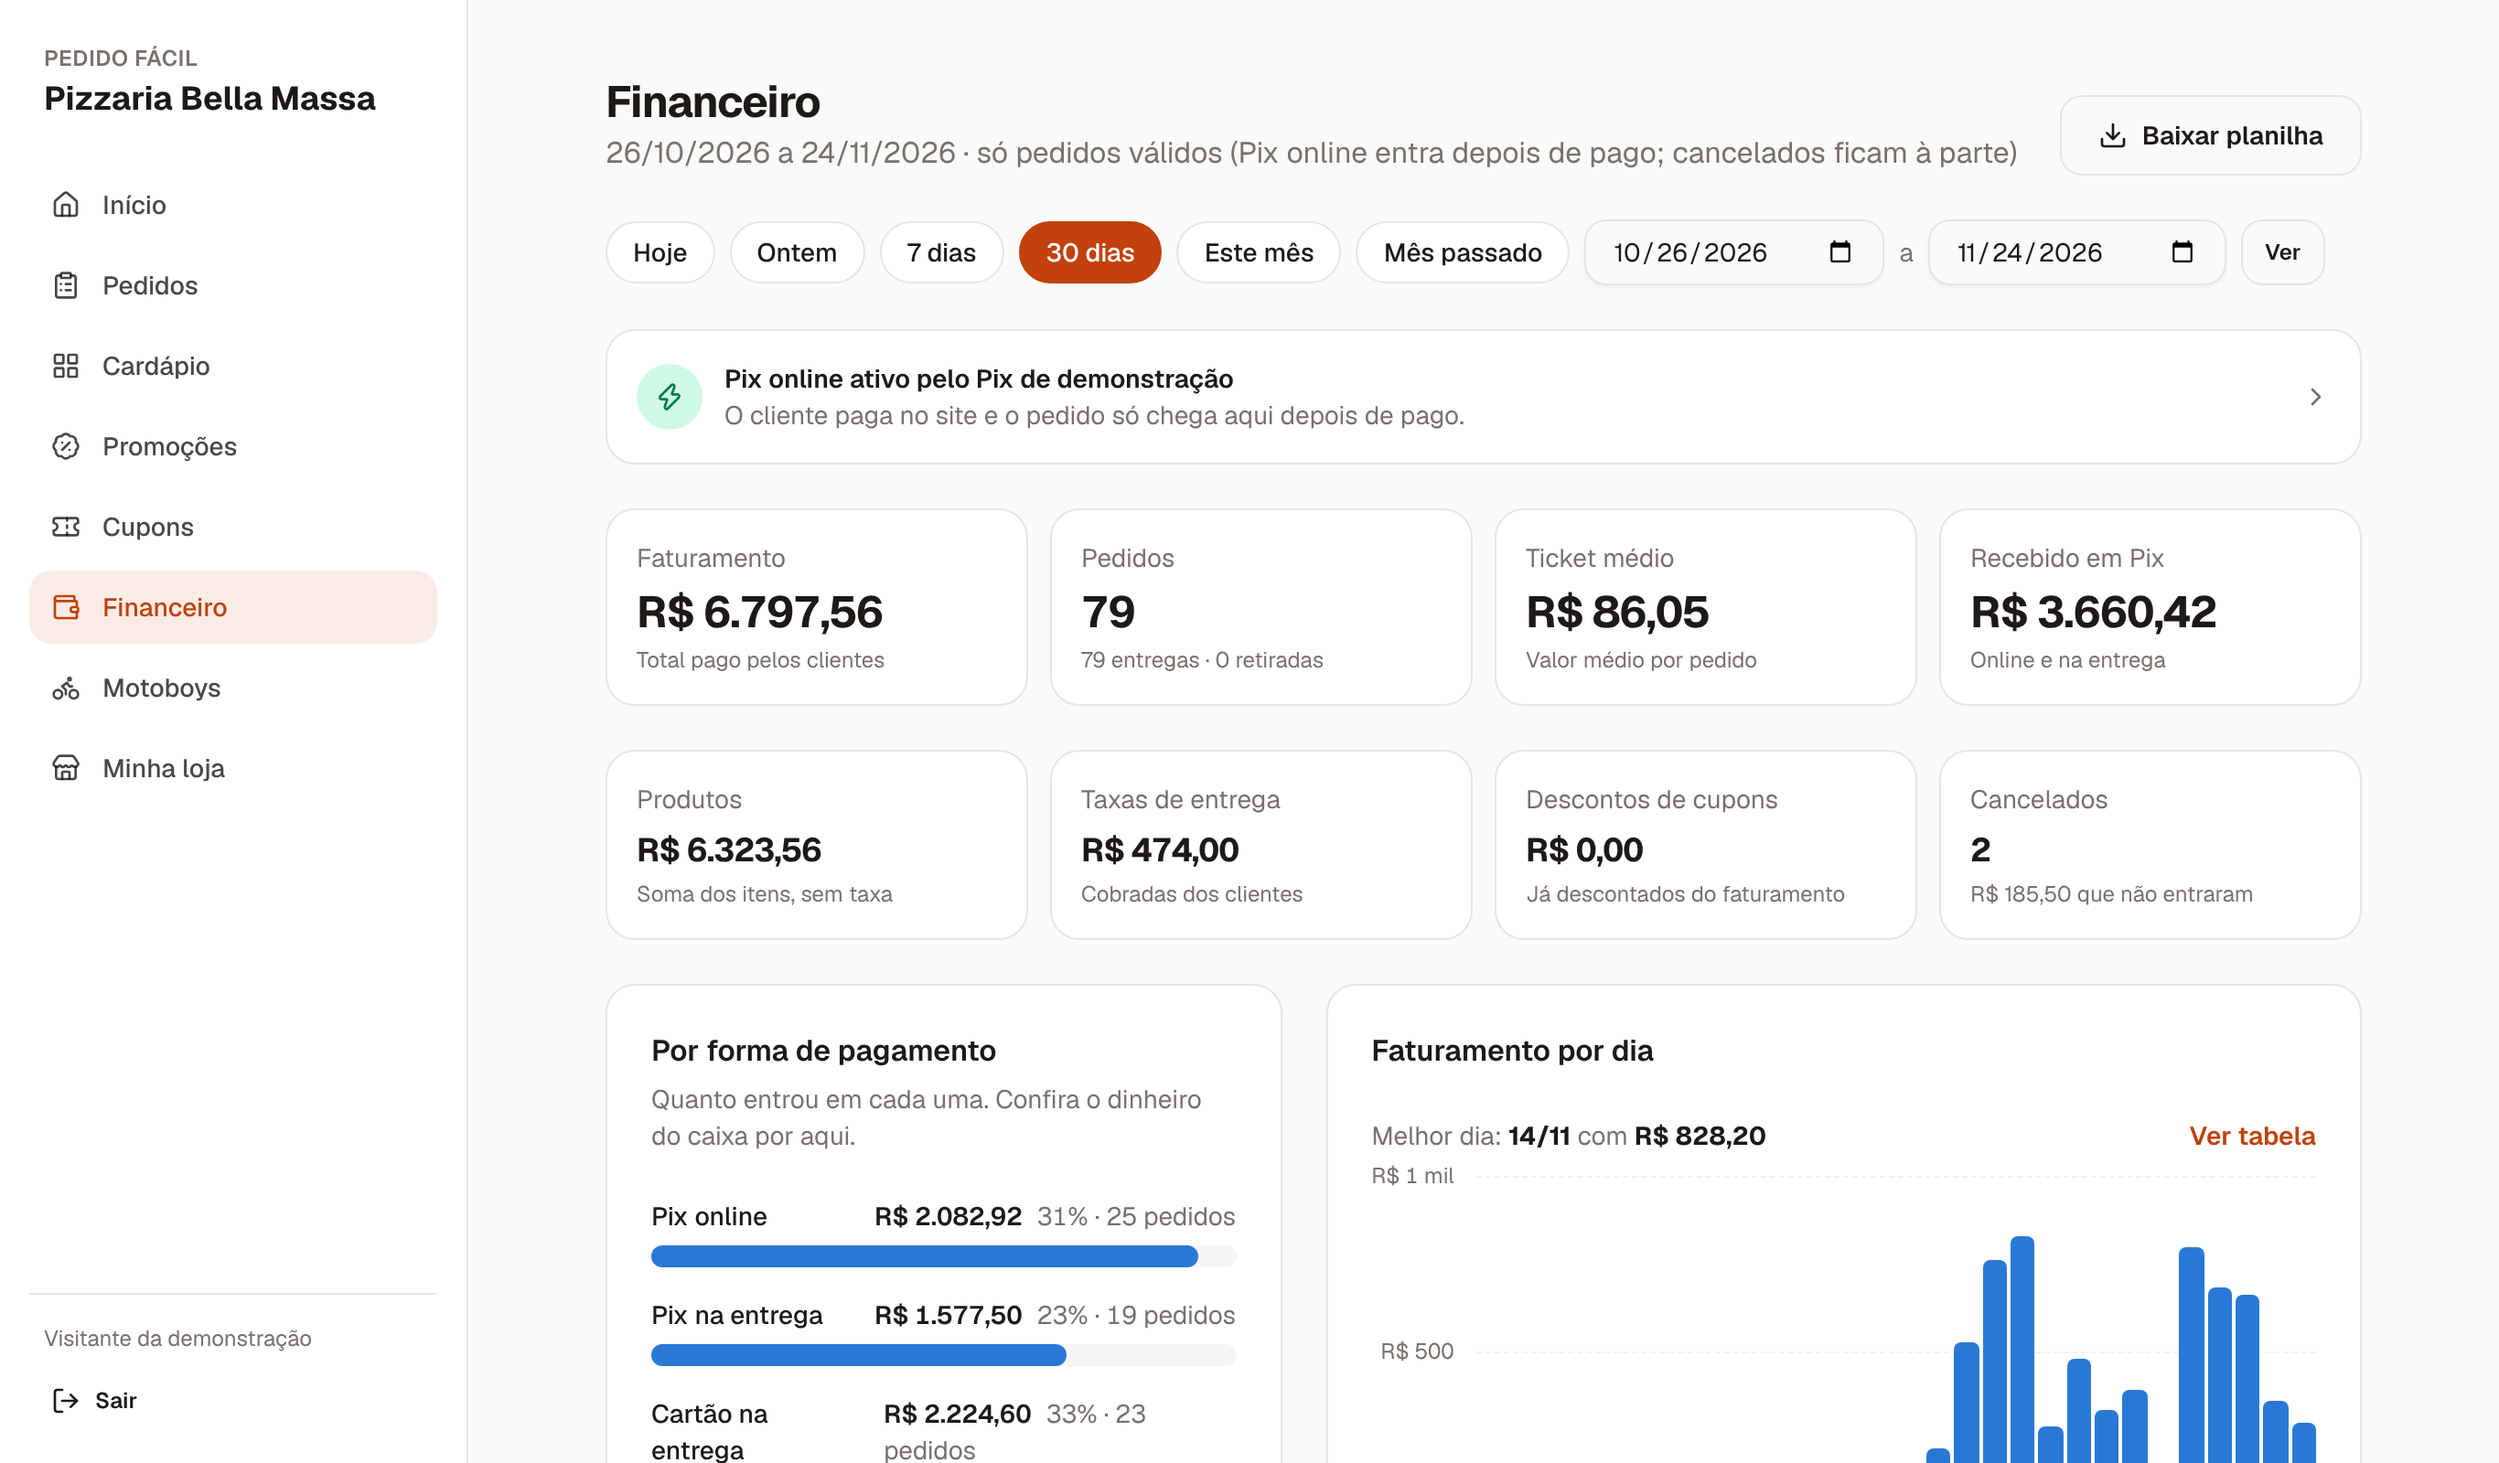
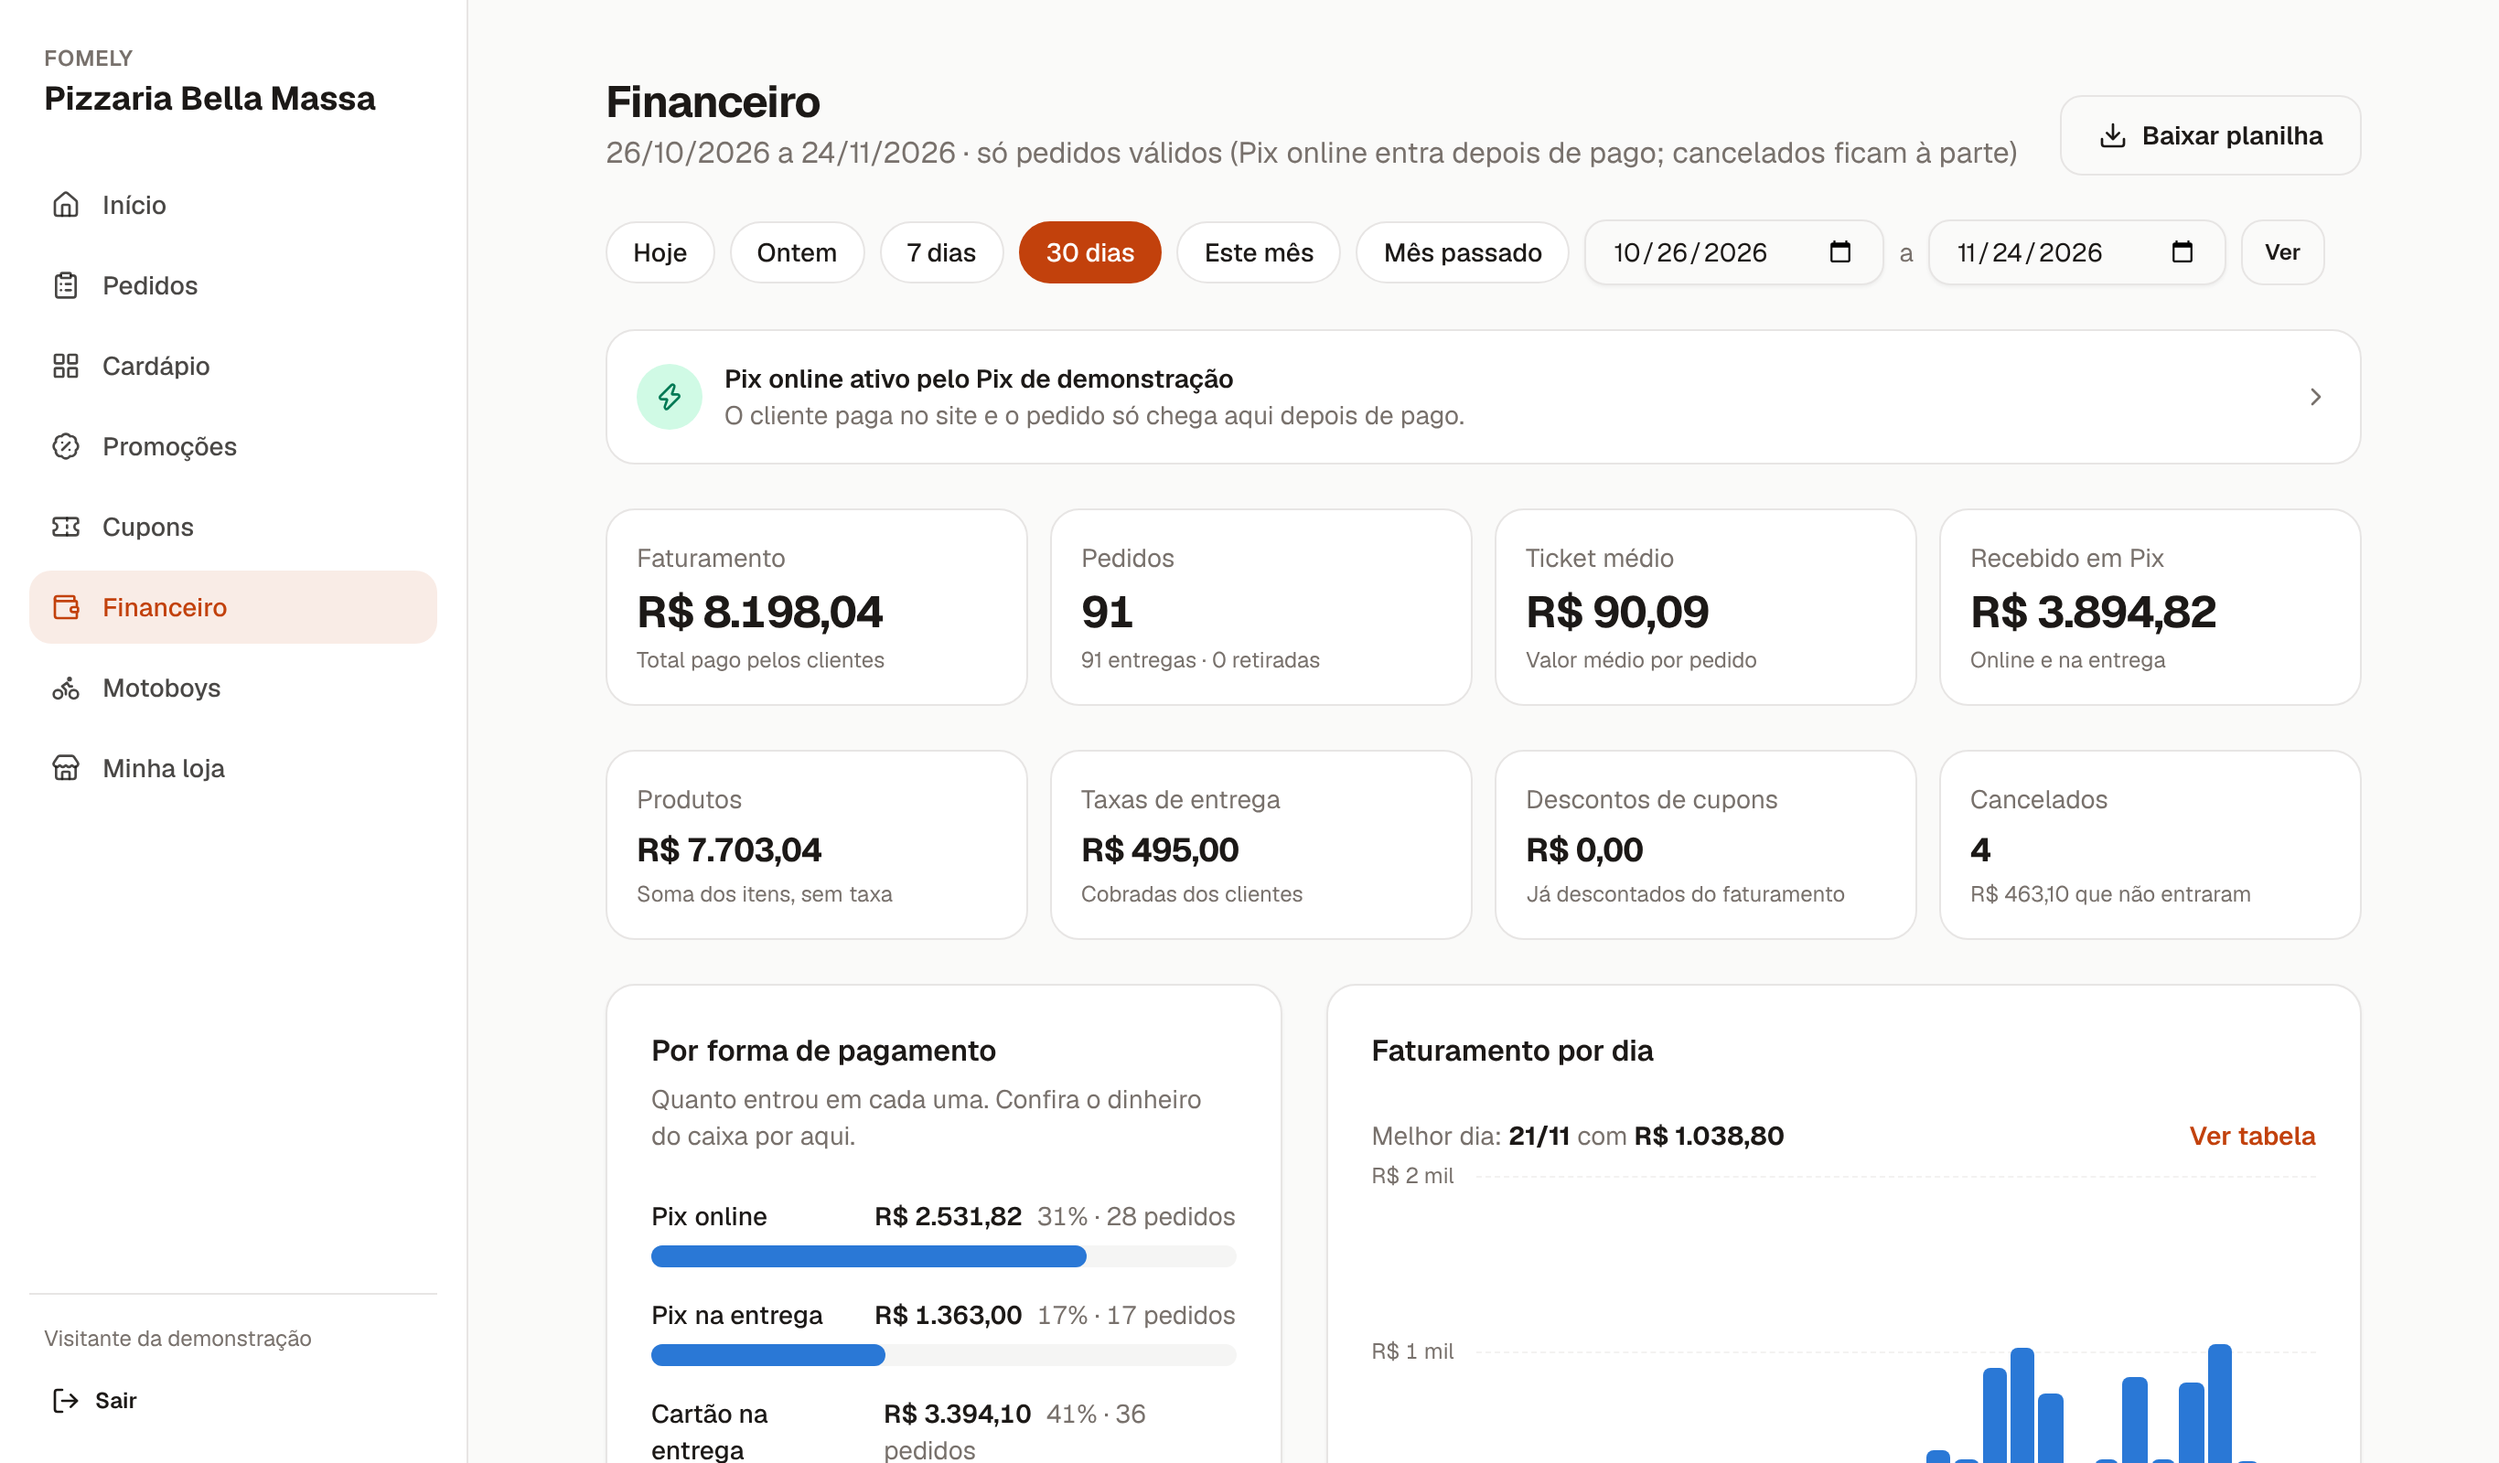
Renomeia a plataforma para Fomely
Troca o nome provisório "Pedido Fácil" por Fomely no site, painel,
página de vendas, integração do Asaas e documentação. Atualiza as
imagens da página de vendas.

Claude-Session: https://claude.ai/code/session_0113E68AoXG2Dsb4EQyk47Qd

diff --git a/src/lib/payments/asaas.ts b/src/lib/payments/asaas.ts
@@ -1,5 +1,6 @@
 import "server-only";
 import { PaymentError, toCents, toReais, type PixGateway } from "./types";
+import { APP_NAME } from "@/lib/brand";
 
 /**
  * Asaas (API v3). A chave de API da conta da loja vai no header `access_token`.
@@ -16,7 +17,7 @@ async function call<T>(token: string, path: string, init: RequestInit = {}): Pro
     headers: {
       access_token: token,
       "Content-Type": "application/json",
-      "User-Agent": "PedidoFacil/1.0",
+      "User-Agent": "Fomely/1.0",
     },
     cache: "no-store",
   });
@@ -107,7 +108,7 @@ export const asaas: PixGateway & {
     await call(token, "/webhooks", {
       method: "POST",
       body: JSON.stringify({
-        name: "Pedido Fácil - pagamentos",
+        name: `${APP_NAME} - pagamentos`,
         url,
         email,
         enabled: true,

diff --git a/src/lib/brand.ts b/src/lib/brand.ts
@@ -1,5 +1,5 @@
-/** Nome provisório da plataforma. Troque aqui quando a marca for definida. */
-export const APP_NAME = "Pedido Fácil";
+/** Nome da plataforma. */
+export const APP_NAME = "Fomely";
 export const APP_TAGLINE = "Cardápio digital e delivery para pizzarias e hamburguerias";
 
 /**

diff --git a/docs/configurar-supabase.md b/docs/configurar-supabase.md
@@ -44,7 +44,7 @@ O Pix online usa a conta de cada loja no Mercado Pago ou no Asaas (o dono conect
 1. `SUPABASE_SECRET_KEY`: em **Project Settings > API Keys**, copie uma **Secret key**
    (`sb_secret_...`). Ela guarda e lê as chaves de recebimento das lojas e confirma os
    pagamentos. Só no servidor: nunca use `NEXT_PUBLIC_` nem mostre para ninguém.
-2. `NEXT_PUBLIC_SITE_URL`: o endereço do site com https (ex.: `https://pedidofacil.com.br`).
+2. `NEXT_PUBLIC_SITE_URL`: o endereço do site com https (ex.: `https://SEU-DOMINIO.com.br`).
    É para onde o Mercado Pago e o Asaas mandam o aviso de pagamento.
 
 Sem a chave secreta, o checkout só oferece pagamento na entrega. Em desenvolvimento

diff --git a/README.md b/README.md
@@ -1,4 +1,4 @@
-# Pedido Fácil (nome provisório)
+# Fomely
 
 Plataforma de cardápio digital e delivery para pizzarias, hamburguerias e lanchonetes.
 Cada loja tem o próprio site, painel do operador e site do motoboy.
